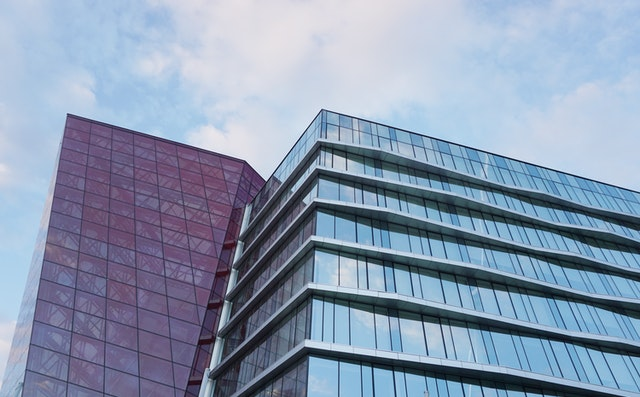
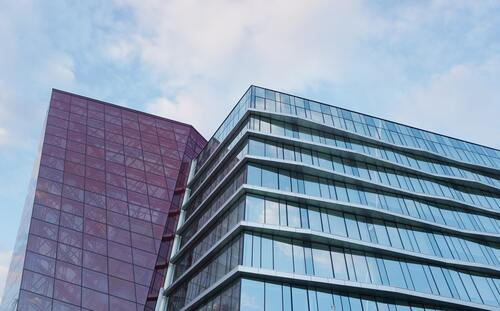
recompressed images

diff --git a/index.html b/index.html
@@ -138,14 +138,14 @@
             administration.
           </p>
         </div>
-        <div class="fig-img"><img loading="lazy" src="assets/estates.jpg" alt="Man doing paperwork"></div>
+        <div class="fig-img"><img loading="lazy" src="assets/estates-compressed.jpg" alt="Man doing paperwork"></div>
       </figure>
       <h2 class="section">
         <span id="contact"></span>
         Contact
       </h2>
       <figure class="">
-        <div class="fig-img"><img loading="lazy" src="assets/building.jpg" alt="RadLaw building"></div>
+        <div class="fig-img"><img loading="lazy" src="assets/building-compressed.jpg" alt="RadLaw building"></div>
         <div class="caption list">
           <h2 style="text-align: left;">Information</h2>
           <ul>
@@ -166,7 +166,6 @@
     </footer>
   </div>
   <script src="https://cdn.jsdelivr.net/npm/css-vars-ponyfill@2"></script>
-  <script>cssVars();</script>
   <script src="scripts/mobileCheck.js"></script>
   <script src="scripts/parallax.js"></script>
   <script src="scripts/fade.js"></script>

diff --git a/scripts/parallax.js b/scripts/parallax.js
@@ -1,5 +1,8 @@
+
+cssVars();
+
 history.scrollRestoration = "manual";
-window.location.hash='';
+window.location.hash= "";
 
 var banner = document.querySelector(".banner");
 var bannerContent = document.querySelector(".banner-content");
